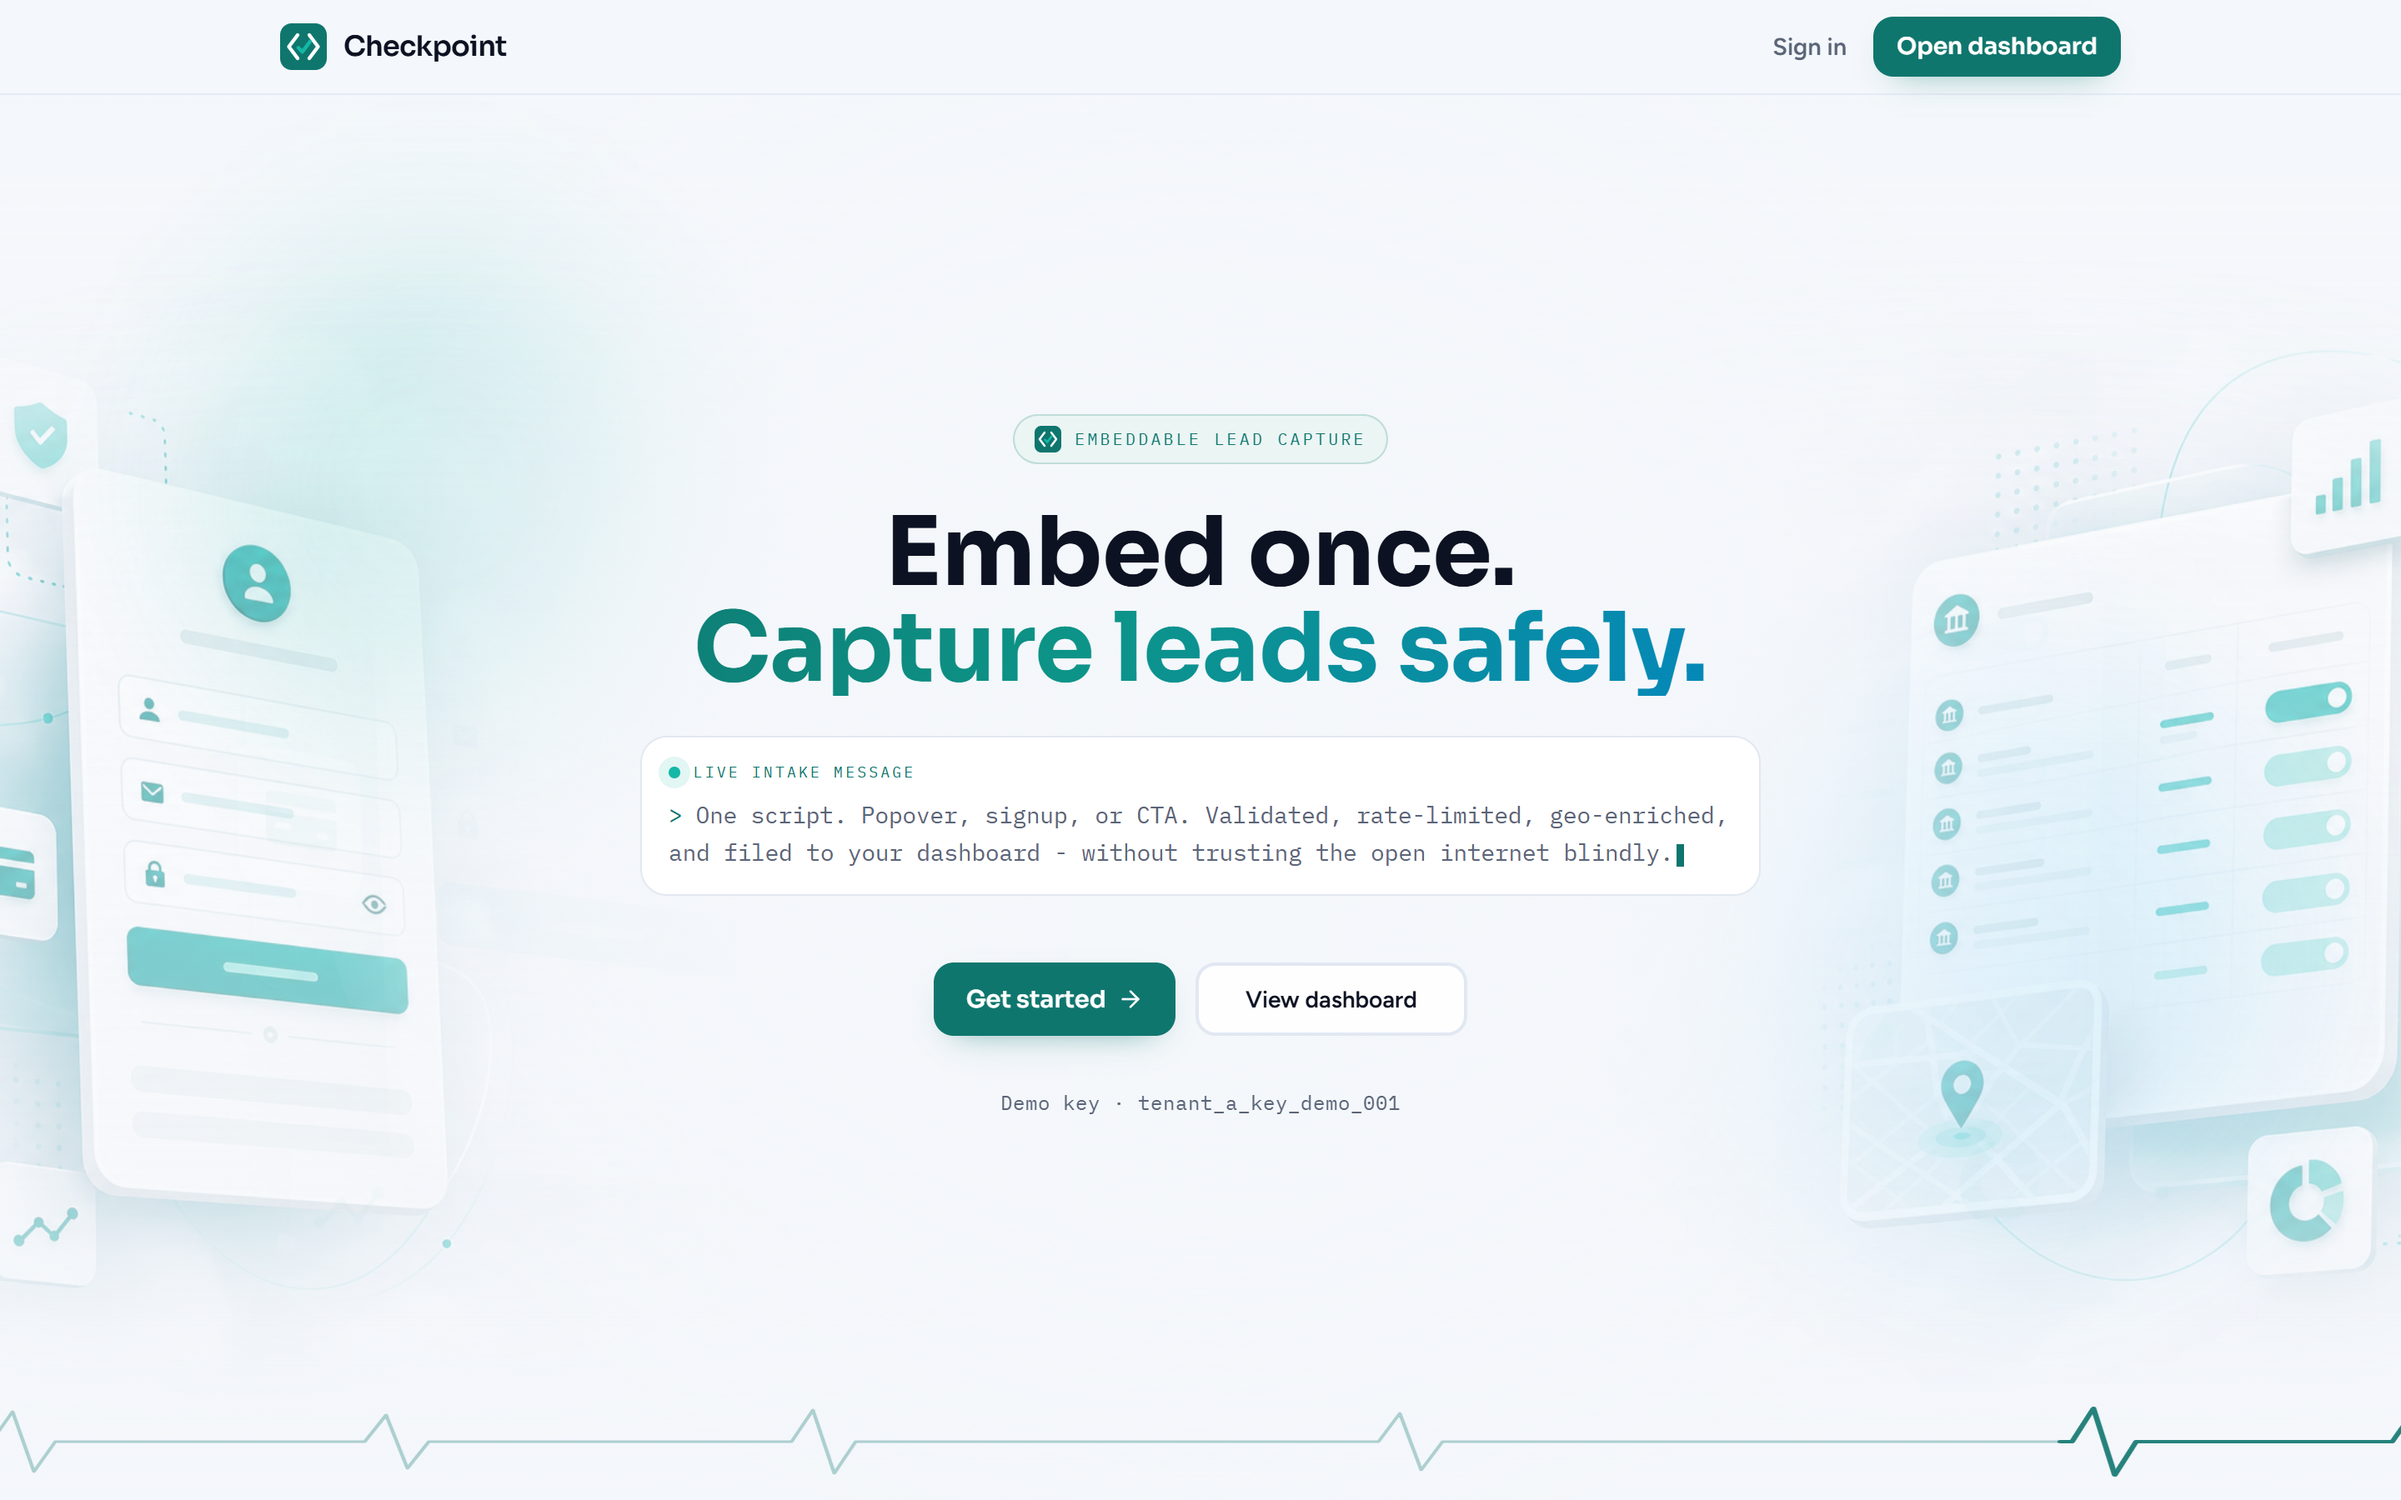
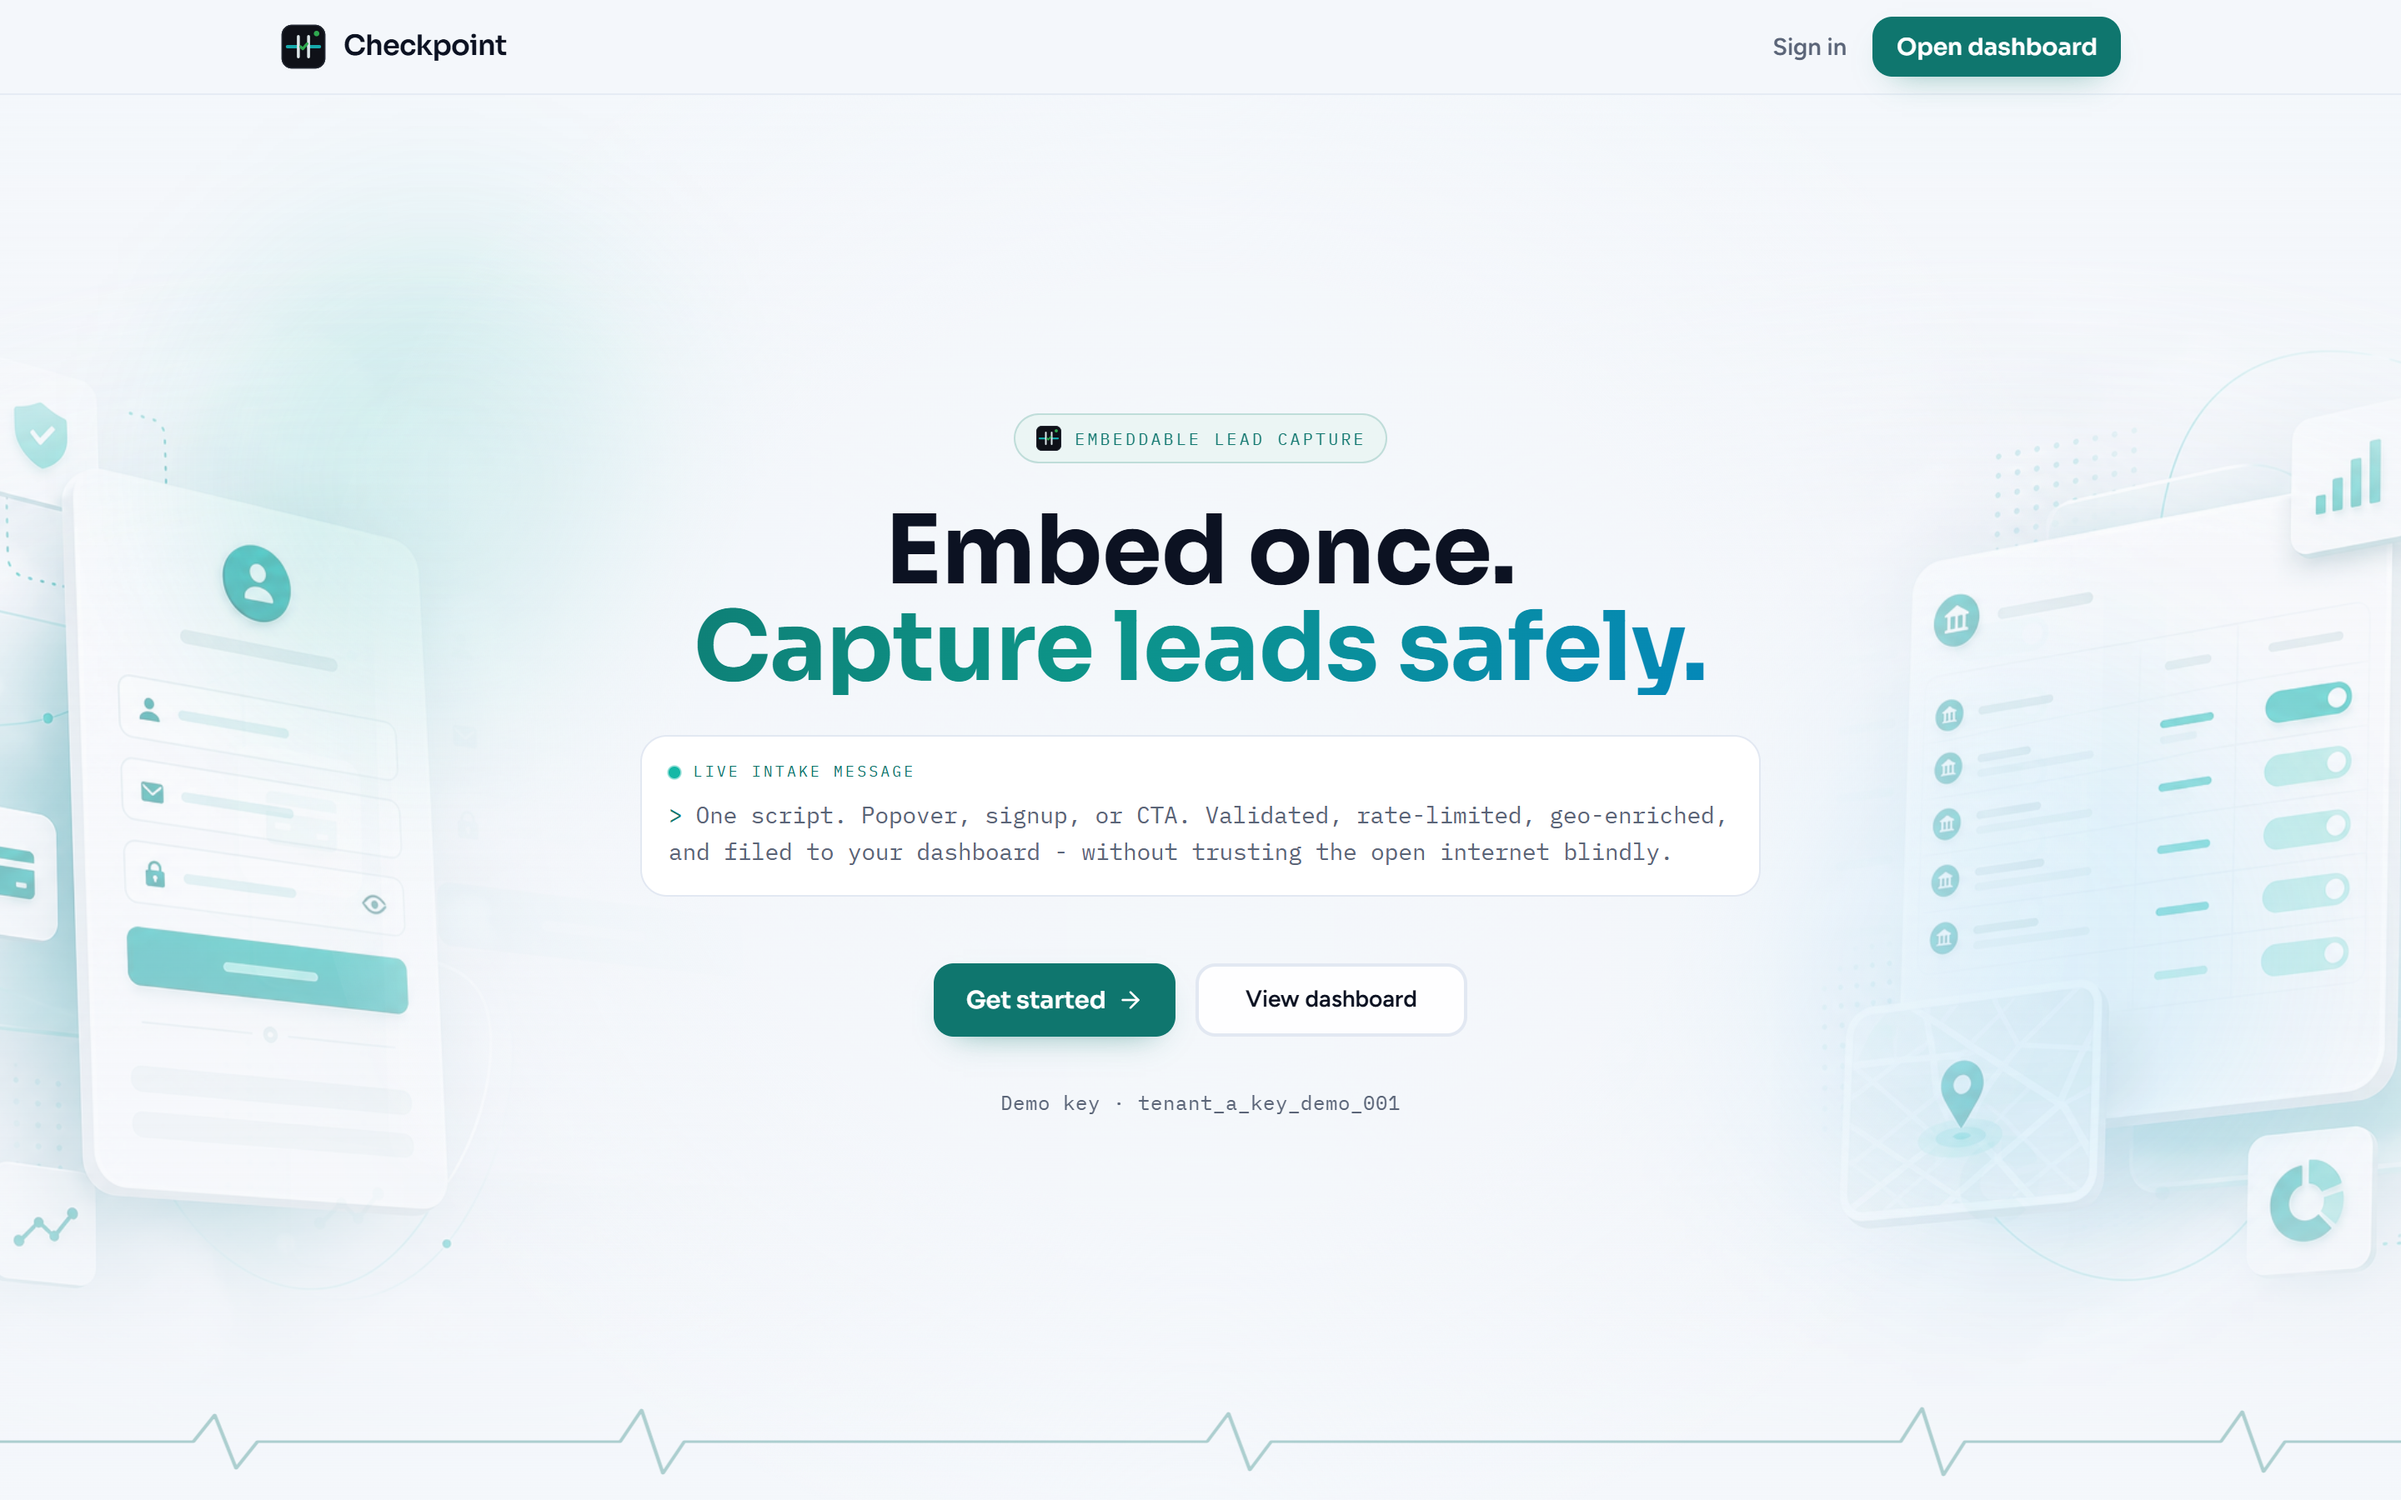
Docs: document embed probe, debug events, and fixture storefront

diff --git a/README.md b/README.md
@@ -23,13 +23,33 @@ Checkpoint is the whole platform for that job. A customer pastes a single `<scri
 
 ## The embed, on someone else's site
 
-The fixture below is served from `http://localhost:5555` while the widget script, config, and submission endpoint all live on `http://localhost:3000`. That is a real cross-origin request, not a same-origin demo.
+The fixture is a full fictional storefront, Acme Outfitters, served from `http://localhost:5555` while the widget script, config, and submission endpoint all live on `http://localhost:3000`. Building it as a real-looking site is the point: the widget has to sit inside someone else's design language without inheriting any of it.
 
-![Checkpoint widget rendered on a foreign origin customer site](docs/images/checkpoint-embed.png)
+![Checkpoint widget rendered on the Acme Outfitters foreign origin storefront](docs/images/checkpoint-embed.png)
 
 Submitting returns `201` and the widget stamps the result inline. The row appears in the owner dashboard with its geo enrichment and verdict.
 
-![Checkpoint widget showing an accepted submission response](docs/images/checkpoint-embed-accepted.png)
+![Checkpoint widget showing an accepted submission response on the customer storefront](docs/images/checkpoint-embed-accepted.png)
+
+### The embed reports itself
+
+A widget that fails silently is the worst kind to debug, so the script is explicit about its own state.
+
+| Signal | Purpose |
+| --- | --- |
+| `checkpoint:ready` event | Fired on `window` after a successful mount, with the widget id and type. |
+| `checkpoint:error` event | Fired with a readable reason, for example a stale widget id returning `404`. |
+| `data-debug="true"` | Opt-in. Renders a visible failure card instead of only logging. Customer sites that omit it still fail quietly. |
+
+The fixture uses all three to drive its **cross-origin embed probe**, the strip that reports the widget id in use and whether the mount succeeded.
+
+Because `pnpm db:seed` mints a new widget id, a cached copy of the page can point at an id that no longer exists. The probe names that failure instead of rendering nothing, and `?w=<widgetId>` overrides the baked-in id without editing the file:
+
+```
+http://localhost:5555/customer-site?w=<widgetId>
+```
+
+Use the clean URL for the override. `serve` redirects `/customer-site.html` to `/customer-site` and drops the query string.
 
 ## The hardened boundary
 
@@ -85,7 +105,7 @@ pnpm dev
 
 Open `http://localhost:3000` and sign in with `tenant_a_key_demo_001`.
 
-The seed prints the demo widget id and the exact embed snippet, and rewrites `fixtures/customer-site.html` with the fresh id so the cross-origin demo works immediately.
+The seed prints the demo widget id and the exact embed snippet, and rewrites the widget id inside `fixtures/customer-site.html` so the cross-origin demo works immediately.
 
 ### Serve the foreign origin
 
@@ -93,10 +113,12 @@ In a second terminal:
 
 ```bash
 pnpm dev:fixture
-# http://localhost:5555/customer-site.html
+# http://localhost:5555/customer-site
 ```
 
 Submit the form there, then refresh `/dashboard`. The row appears with a location and a verdict.
+
+If the widget does not appear, read the embed probe on the page rather than the console. A stale widget id after a reseed is the usual cause, and a hard refresh (`Ctrl+Shift+R`) or `?w=<widgetId>` fixes it.
 
 ## Prove it yourself
 
@@ -115,6 +137,14 @@ curl -s -o /dev/null -w "%{http_code}\n" \
 **Config caching and CORS**
 
 Open DevTools on the fixture page. `GET /api/widgets/:id/config` returns `ETag` and `Cache-Control`; the submission response echoes `Access-Control-Allow-Origin: http://localhost:5555` rather than a wildcard.
+
+**The embed fails loudly, not silently**
+
+```
+http://localhost:5555/customer-site?w=stale_id_does_not_exist
+```
+
+The probe turns red with `could not load widget config - unknown or stale widget id [HTTP 404]`, a debug card appears, and no widget mounts. Swap in a real id and the same probe reports `mounted cross-origin, type=signup`.
 
 **Rate limiting**
 
@@ -182,8 +212,8 @@ lib/rate-limit       swappable RateLimiter interface + token bucket
 lib/geo              provider A, provider B, fallback chain
 lib/email            notify wrapper that cannot throw past the handler
 lib/cdn              widget config rendering and cache headers
-public/widget.js     the embeddable script
-fixtures/            foreign-origin customer site for the CORS demo
+public/widget.js     the embeddable script, with ready/error events
+fixtures/            Acme Outfitters storefront on a foreign origin
 ```
 
 - [`docs/ARCHITECTURE.md`](docs/ARCHITECTURE.md) - request-flow contracts
@@ -193,7 +223,11 @@ fixtures/            foreign-origin customer site for the CORS demo
 
 ## Design
 
-The interface uses **Clear Signal**: a cool mist canvas (`#F4F7FB`), deep teal accent (`#0F766E`), Sora for display and Figtree for body, with IBM Plex Mono reserved for ids, snippets, and micro-labels. Marketing and dashboard share one system, one brand mark, and one motion stack (Lenis smooth scroll plus Framer Motion), so the product does not change personality after sign-in. Full rules live in [`docs/DESIGN.md`](docs/DESIGN.md) and the shared Capstones skill `capstone-signal-design`.
+The interface uses **Clear Signal**: a cool mist canvas (`#F4F7FB`), deep teal accent (`#0F766E`), Sora for display and Figtree for body, with IBM Plex Mono reserved for ids, snippets, and micro-labels. Marketing and dashboard share one system, one brand mark, and one motion stack (Lenis smooth scroll plus Framer Motion), so the product does not change personality after sign-in.
+
+The brand mark reads as the product's job: a lead signal crossing two scanner posts on a dark instrument plate, with a live status light. `components/BrandMark.tsx` and `public/favicon.svg` are the same geometry, checked at 16px so the tab icon stays legible.
+
+The fixture storefront deliberately does **not** use this system. It runs its own forest-green outdoor palette and serif display type, which is what makes the embed a fair test: the widget keeps its own styling on a site that shares none of it. Full rules live in [`docs/DESIGN.md`](docs/DESIGN.md) and the shared Capstones skill `capstone-signal-design`.
 
 ## Limitations
 
